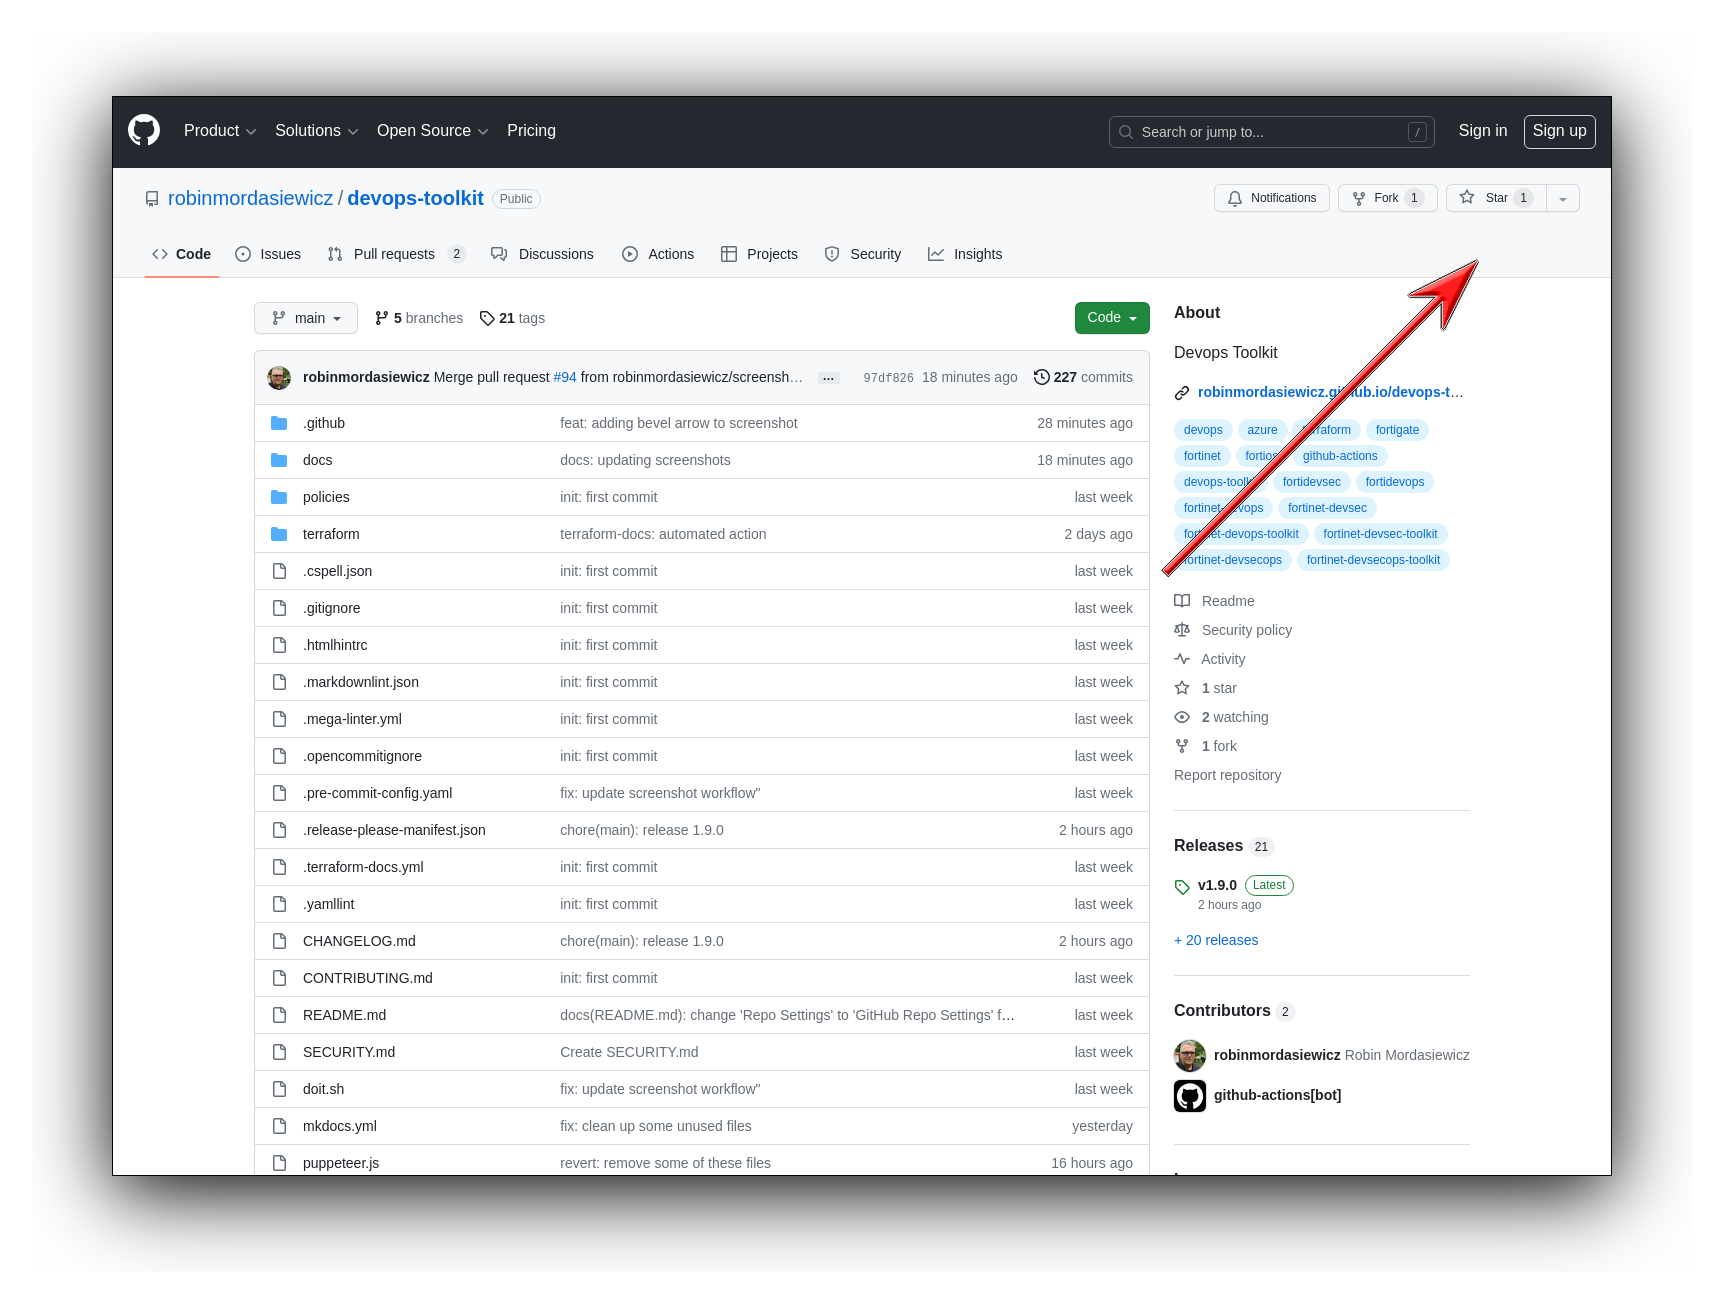
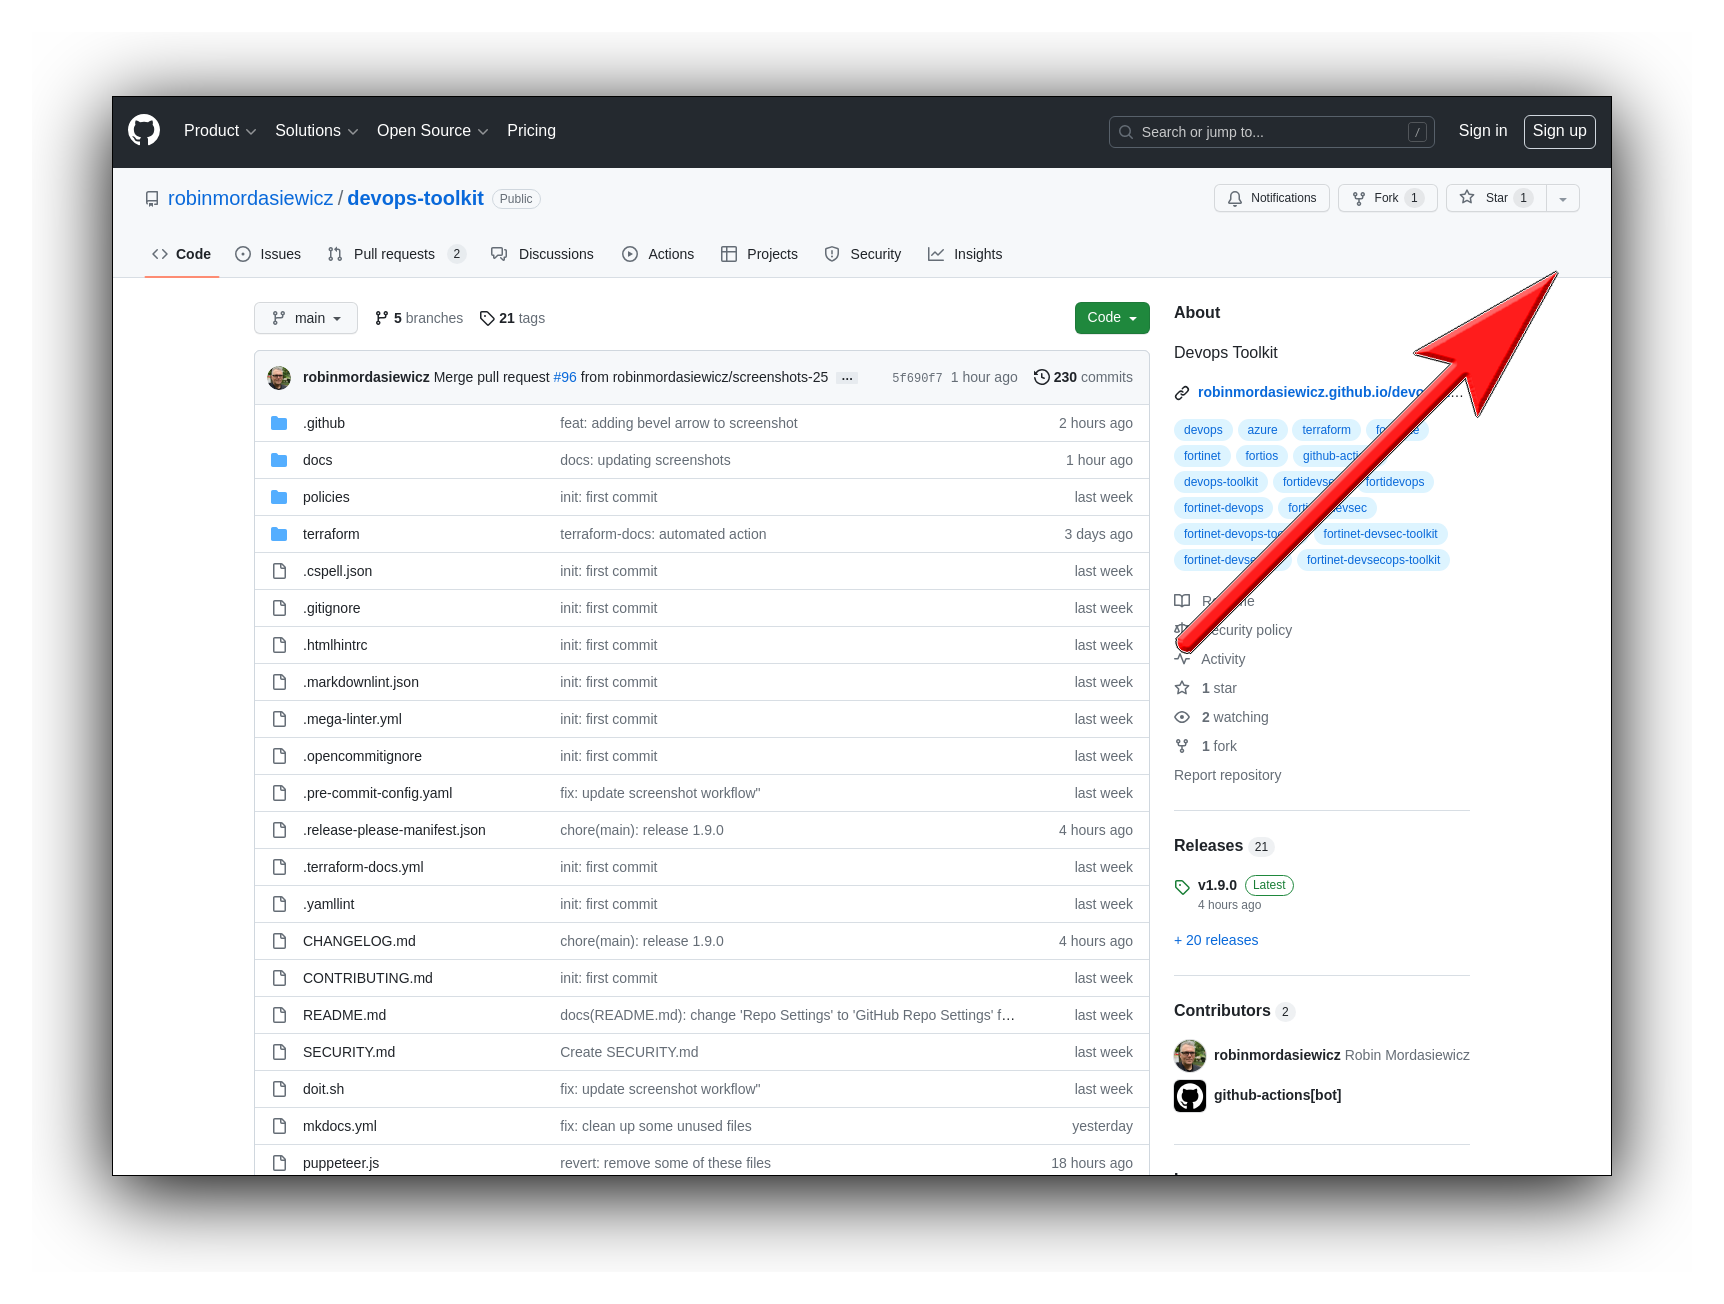
Deployed 76e760d with MkDocs version: 1.5.3

diff --git a/extra.css b/extra.css
@@ -6,3 +6,10 @@
 *, ::after, ::before {
   box-sizing: unset;
 }
+
+/* stylelint-disable selector-class-pattern */
+.md-sidebar--secondary {
+  display: none;
+  width: 20px;
+}
+/* stylelint-enable selector-class-pattern */
